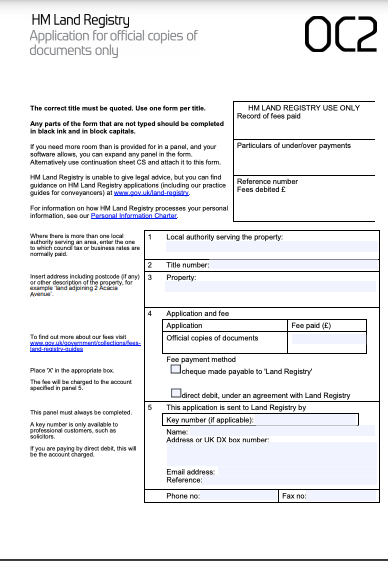
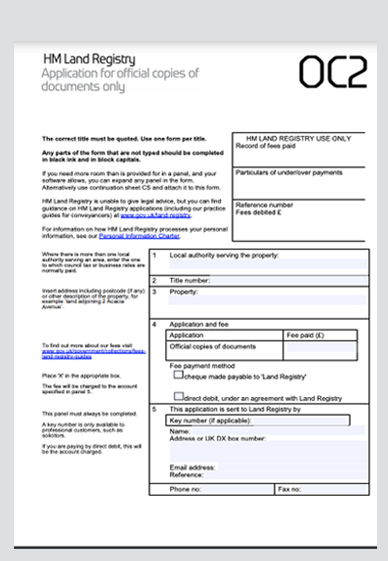
update to use grey image 0C2

diff --git a/app/views/deeds/phase1-1/OC2-page.html b/app/views/deeds/phase1-1/OC2-page.html
@@ -111,8 +111,8 @@
             </div
         </details>
       </div>
-      <div style="float:left; padding-right: 20px; padding-left: 10px;">
-        <img src="../../public/images/oc2-pdf.png" width="100" height="150" alt="OC2 PDF">
+      <div style="float:left; padding-right: 20px; padding-left: 5px;">
+        <img src="../../public/images/OC2_pdf_grey.png" width="105" height="150" alt="OC2 PDF">
       </div>
       <div>
         <p><a href="download-OC2" target="_blank" class="govuk-!-font-size-27">Official copies of documents: registration (OC2)</a></p>

diff --git a/app/views/deeds/phase1-2/OC2-page.html b/app/views/deeds/phase1-2/OC2-page.html
@@ -111,8 +111,8 @@
             </div
         </details>
       </div>
-      <div style="float:left; padding-right: 20px; padding-left: 10px;">
-        <img src="../../public/images/oc2-pdf.png" width="100" height="150" alt="OC2 PDF">
+      <div style="float:left; padding-right: 20px; padding-left: 5px;">
+        <img src="../../public/images/OC2_pdf_grey.png" width="105" height="150" alt="OC2 PDF">
       </div>
       <div>
         <p><a href="download-OC1" class="govuk-!-font-size-27">Official copies of documents: registration (OC2)</a></p>
